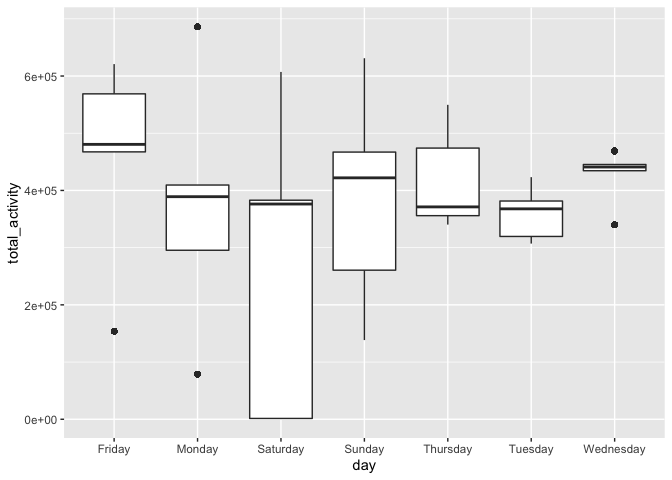
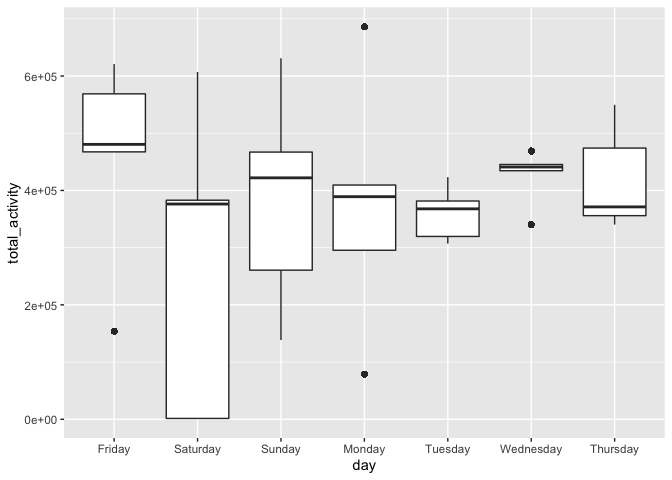
altered the cross-year Jan and July plot

diff --git a/p8105_hw3_yl4608.md b/p8105_hw3_yl4608.md
@@ -16,14 +16,14 @@ library(p8105.datasets)
 library(tidyverse)
 ```
 
-    ## ── Attaching packages ───────────────────── tidyverse 1.3.0 ──
+    ## ── Attaching packages ─────────────── tidyverse 1.3.0 ──
 
     ## ✓ ggplot2 3.3.2     ✓ purrr   0.3.4
     ## ✓ tibble  3.0.3     ✓ dplyr   1.0.2
     ## ✓ tidyr   1.1.2     ✓ stringr 1.4.0
     ## ✓ readr   1.3.1     ✓ forcats 0.5.0
 
-    ## ── Conflicts ──────────────────────── tidyverse_conflicts() ──
+    ## ── Conflicts ────────────────── tidyverse_conflicts() ──
     ## x dplyr::filter() masks stats::filter()
     ## x dplyr::lag()    masks stats::lag()
 
@@ -32,6 +32,8 @@ library(dplyr)
 library(ggridges)
 data("instacart")
 ```
+
+# Problem 1
 
 The goal is to do some exploration of this dataset.
 
@@ -121,19 +123,18 @@ accel_data =
   # pivot to long format
   pivot_longer(
     activity.1 : activity.1440,
-    names_to = "activity_count",
-    values_to = "minute"
+    names_to = "minute",
+    values_to = "activity_count"
   ) %>% 
   mutate(
     weekday_vs_weekend = 
       ifelse(day == 'Friday' | day == 'Saturday', "weekend", "weekday"),
     weekday_vs_weekend = as.factor(weekday_vs_weekend),
-    activity_count = as.character(activity_count),
     day = as.factor(day)
   ) %>%
-  separate(activity_count, into = c("acti","count"), sep = 9) %>% 
+  separate(minute, into = c("acti","minute"), sep = 9, remove = TRUE) %>% 
   mutate(
-    count = as.integer(count)
+    minute = as.integer(minute)
   ) %>% 
   select(-acti) 
 ```
@@ -152,14 +153,14 @@ head(accel_data) %>%
 knitr::kable()
 ```
 
-| week | day\_id | day    | count |   minute | weekday\_vs\_weekend |
-| ---: | ------: | :----- | ----: | -------: | :------------------- |
-|    1 |       1 | Friday |     1 | 88.37778 | weekend              |
-|    1 |       1 | Friday |     2 | 82.24444 | weekend              |
-|    1 |       1 | Friday |     3 | 64.44444 | weekend              |
-|    1 |       1 | Friday |     4 | 70.04444 | weekend              |
-|    1 |       1 | Friday |     5 | 75.04444 | weekend              |
-|    1 |       1 | Friday |     6 | 66.26667 | weekend              |
+| week | day\_id | day    | minute | activity\_count | weekday\_vs\_weekend |
+| ---: | ------: | :----- | -----: | --------------: | :------------------- |
+|    1 |       1 | Friday |      1 |        88.37778 | weekend              |
+|    1 |       1 | Friday |      2 |        82.24444 | weekend              |
+|    1 |       1 | Friday |      3 |        64.44444 | weekend              |
+|    1 |       1 | Friday |      4 |        70.04444 | weekend              |
+|    1 |       1 | Friday |      5 |        75.04444 | weekend              |
+|    1 |       1 | Friday |      6 |        66.26667 | weekend              |
 
 Q:
 
@@ -170,8 +171,8 @@ A:
 
 The dataset contains all the recorded activity of the patient, given
 that record interval is 1 minute. It contains variables week, day\_id,
-day, count, minute, weekday\_vs\_weekend, and it has a total dimension
-of \[50,400 x 6\]. The total observation is 50400.
+day, minute, activity\_count, weekday\_vs\_weekend, and it has a total
+dimension of \[50,400 x 6\]. The total observation is 50400.
 
 Q:
 
@@ -185,7 +186,7 @@ showing these totals.
 accel_data_df1 =
   accel_data %>% 
   group_by(day_id) %>% 
-  summarize(total_activity = sum(minute))
+  summarize(total_activity = sum(activity_count))
 ```
 
     ## `summarise()` ungrouping output (override with `.groups` argument)
@@ -240,7 +241,10 @@ Are any trends apparent?
 
 ``` r
 accel_data_df2 = 
-  right_join(x = accel_data, y = accel_data_df1) 
+  right_join(x = accel_data, y = accel_data_df1) %>% 
+  mutate(
+    day = forcats::fct_relevel(day, c("Friday", "Saturday", "Sunday", "Monday", "Tuesday", "Wednesday", "Thursday"))
+  )
 ```
 
     ## Joining, by = "day_id"
@@ -262,7 +266,7 @@ accel_data_df2 %>%
 accel_data_df2 %>% 
    ggplot(aes(x = day_id, total_activity)) + 
   geom_point() + 
-  geom_smooth(se = FALSE)
+  geom_smooth()
 ```
 
     ## `geom_smooth()` using method = 'gam' and formula 'y ~ s(x, bs = "cs")'
@@ -295,7 +299,7 @@ higher value at 35th day.
 
 In relation to each weekdays, each day have different means and range.
 However, Satureday has the largest range for activity. Wednesday and
-Tuesday have a very little range.
+Tuesday have a very little range. Friday is the most active day.
 
 Observe the weekday and weekend’s relation with daily acitivity, we can
 say that weekdays have a more stable activity, while weekend activity
@@ -309,17 +313,202 @@ Q:
 
 Accelerometer data allows the inspection activity over the course of the
 day. Make a single-panel plot that shows the 24-hour activity time
-courses for each day and use color to indicate day of the week. Describe
-in words any patterns or conclusions you can make based on this graph.
+courses for each day and use color to indicate day of the week.
 
 ``` r
 accel_data %>% 
-  ggplot(aes(x = minute, count)) + 
-  geom_point() +
-  scale_y_continuous(
+  ggplot(aes(x = minute, activity_count, color = day)) + 
+  geom_line() +
+  scale_x_continuous(
     breaks = c(0, 240, 480, 720, 960, 1200, 1440),
     labels = c("0:00", "04:00", "08:00", "12:00", "16:00", "20:00", "24:00")
   ) 
 ```
 
 ![](p8105_hw3_yl4608_files/figure-gfm/unnamed-chunk-8-1.png)<!-- -->
+
+Q:
+
+Describe in words any patterns or conclusions you can make based on this
+graph.
+
+A:
+
+Wednesday has the lowest activity level in the coures of day. The
+activity level has to high points: around noon and around 8pm - 9pm. We
+can also see that the patient is very active in Friday nights.
+
+# Problem 3
+
+``` r
+library(p8105.datasets)
+data("ny_noaa")
+```
+
+Q:
+
+The goal is to do some exploration of this dataset. To that end, write a
+short description of the dataset, noting the size and structure of the
+data, describing some key variables, and indicating the extent to which
+missing data is an issue
+
+``` r
+# describe data
+ny_noaa
+```
+
+    ## # A tibble: 2,595,176 x 7
+    ##    id          date        prcp  snow  snwd tmax  tmin 
+    ##    <chr>       <date>     <int> <int> <int> <chr> <chr>
+    ##  1 US1NYAB0001 2007-11-01    NA    NA    NA <NA>  <NA> 
+    ##  2 US1NYAB0001 2007-11-02    NA    NA    NA <NA>  <NA> 
+    ##  3 US1NYAB0001 2007-11-03    NA    NA    NA <NA>  <NA> 
+    ##  4 US1NYAB0001 2007-11-04    NA    NA    NA <NA>  <NA> 
+    ##  5 US1NYAB0001 2007-11-05    NA    NA    NA <NA>  <NA> 
+    ##  6 US1NYAB0001 2007-11-06    NA    NA    NA <NA>  <NA> 
+    ##  7 US1NYAB0001 2007-11-07    NA    NA    NA <NA>  <NA> 
+    ##  8 US1NYAB0001 2007-11-08    NA    NA    NA <NA>  <NA> 
+    ##  9 US1NYAB0001 2007-11-09    NA    NA    NA <NA>  <NA> 
+    ## 10 US1NYAB0001 2007-11-10    NA    NA    NA <NA>  <NA> 
+    ## # … with 2,595,166 more rows
+
+``` r
+summary(ny_noaa)
+```
+
+    ##       id                 date                 prcp               snow       
+    ##  Length:2595176     Min.   :1981-01-01   Min.   :    0.00   Min.   :  -13   
+    ##  Class :character   1st Qu.:1988-11-29   1st Qu.:    0.00   1st Qu.:    0   
+    ##  Mode  :character   Median :1997-01-21   Median :    0.00   Median :    0   
+    ##                     Mean   :1997-01-01   Mean   :   29.82   Mean   :    5   
+    ##                     3rd Qu.:2005-09-01   3rd Qu.:   23.00   3rd Qu.:    0   
+    ##                     Max.   :2010-12-31   Max.   :22860.00   Max.   :10160   
+    ##                                          NA's   :145838     NA's   :381221  
+    ##       snwd            tmax               tmin          
+    ##  Min.   :   0.0   Length:2595176     Length:2595176    
+    ##  1st Qu.:   0.0   Class :character   Class :character  
+    ##  Median :   0.0   Mode  :character   Mode  :character  
+    ##  Mean   :  37.3                                        
+    ##  3rd Qu.:   0.0                                        
+    ##  Max.   :9195.0                                        
+    ##  NA's   :591786
+
+``` r
+# describe NA: id and date both have no missing
+anyNA(ny_noaa$id)       
+```
+
+    ## [1] FALSE
+
+``` r
+anyNA(ny_noaa$date)
+```
+
+    ## [1] FALSE
+
+``` r
+na_tmax = sum(is.na(ny_noaa$tmax))
+na_tmin = sum(is.na(ny_noaa$tmin))
+na_prcp = sum(is.na(ny_noaa$prcp))
+na_snow = sum(is.na(ny_noaa$snow))
+na_snwd = sum(is.na(ny_noaa$snwd))
+na_total = sum(is.na(ny_noaa))
+```
+
+A:
+
+The dataset have a size of 7 \* 2595176. It describes the weather record
+of the area from 1981-01-01 to 2010-12-31. The variables that describes
+weather metrics include: prcp, snow, snwd, tmax, tmin.
+
+Among these data of 18166232, there are 3387623 missing values, which
+takes up to 18.6479122 % of the observations. Among these, 33.4853672 %
+are from tmax, 33.4871974 % are from tmin.
+
+Q:
+
+Do some data cleaning. Create separate variables for year, month, and
+day. Ensure observations for temperature, precipitation, and snowfall
+are given in reasonable units.
+
+``` r
+ny_noaa_tidy = 
+ny_noaa %>% 
+  mutate(
+    date = as.character(date),
+    tmax = as.numeric(tmax),
+    tmin = as.numeric(tmin),
+    prcp = prcp / 10,
+    tmax = tmax / 10,
+    tmin = tmin / 10
+  ) %>% 
+  separate(date, into = c("year", "month", "day"), sep = "-") %>% 
+  mutate(
+    year = as.numeric(year),
+    month = as.numeric(month),
+    day = as.numeric(day)
+  )
+
+# most commonly observed snowfall
+snow_count = count(ny_noaa, snow) %>% 
+  mutate(
+    snow_rank = min_rank(desc(n))
+  ) %>% 
+  arrange(snow_rank, by_group = FALSE)
+```
+
+Q:
+
+For snowfall, what are the most commonly observed values? Why?
+
+A:
+
+0.  Since most of the days in a year it is not snowing.
+
+Q:
+
+Make a two-panel plot showing the average max temperature in January and
+in July in each station across years.
+
+``` r
+ny_noaa_df1 = 
+ny_noaa_tidy %>% 
+  filter(month == 1 | month == 7) %>%
+  group_by(id, month, year, day) %>% 
+  summarize(
+    avg_tmax = mean(tmax, na.rm = TRUE)
+  ) %>% 
+  drop_na()
+```
+
+    ## `summarise()` regrouping output by 'id', 'month', 'year' (override with `.groups` argument)
+
+``` r
+ggplot(ny_noaa_df1, aes(x = year, avg_tmax)) + 
+  geom_point()+
+  geom_smooth(se = FALSE)+
+  facet_grid(.~month)
+```
+
+    ## `geom_smooth()` using method = 'gam' and formula 'y ~ s(x, bs = "cs")'
+
+![](p8105_hw3_yl4608_files/figure-gfm/unnamed-chunk-10-1.png)<!-- -->
+
+Q:
+
+Is there any observable / interpretable structure? Any outliers?
+
+A:
+
+The average max temperature is higher in July, by 20 degress
+approximately. In January, the variations in tmax is greater than that
+in July. Also, the average tmax fluctuates a lot over the years from
+1980 to 2010, this implies some more interesting hypothesis to be
+analyzed relating years with temperature change.
+
+Q:
+
+Make a two-panel plot showing (i) tmax vs tmin for the full dataset
+(note that a scatterplot may not be the best option); (ii) make a plot
+showing the distribution of snowfall values greater than 0 and less than
+100 separately by year.
